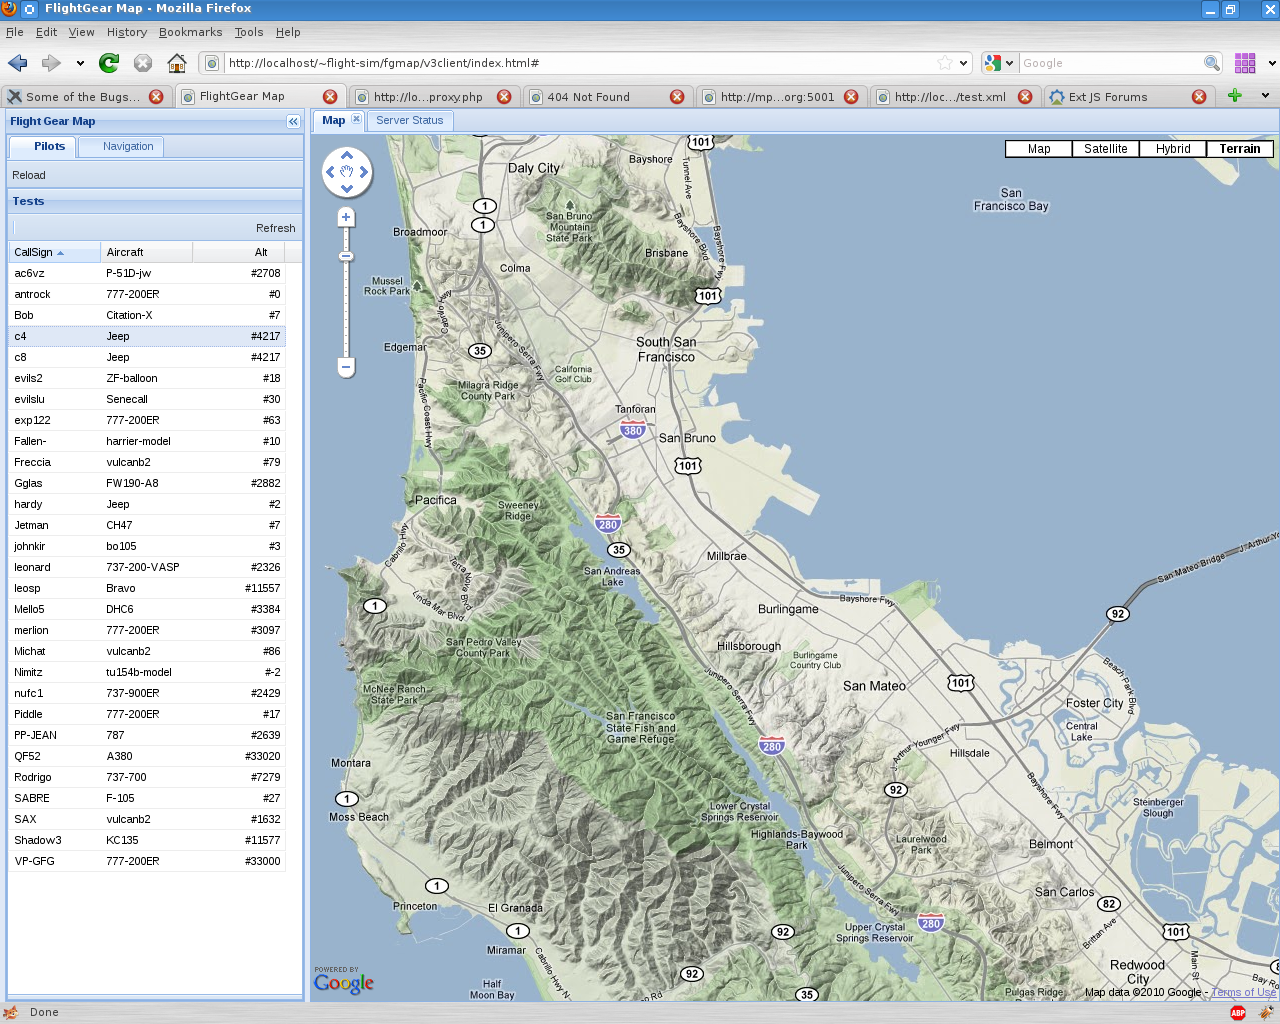
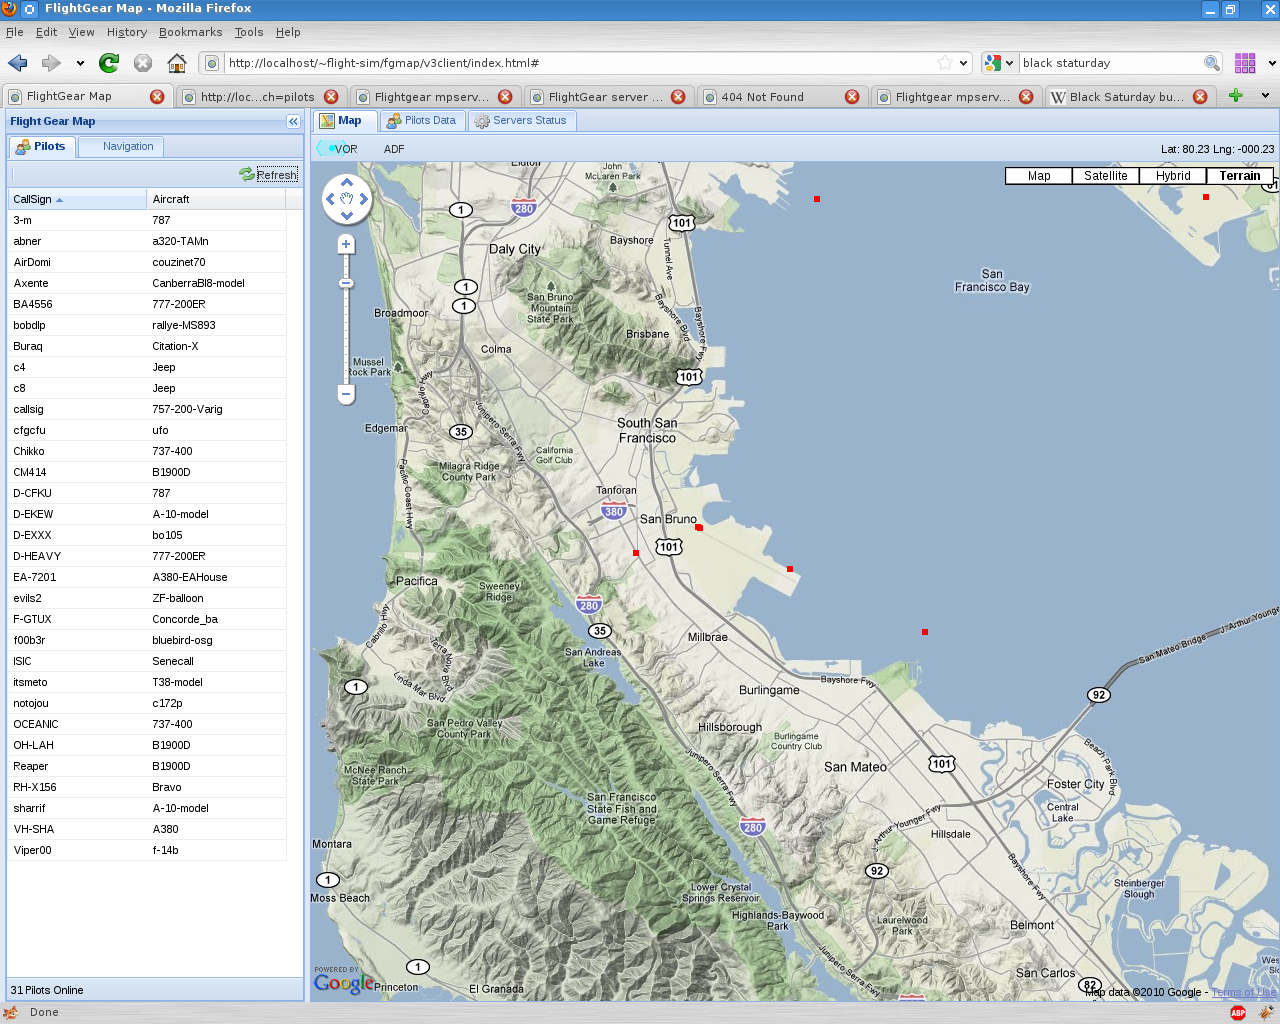
prep for Online test

diff --git a/v3client/js/FGMap_main.js b/v3client/js/FGMap_main.js
@@ -3,8 +3,8 @@ Ext.onReady(function(){
 
 
 
-var latLabel = new Ext.Toolbar.TextItem({text:'Lat: 80.23'});
-var lngLabel = new Ext.Toolbar.TextItem({text:'Lng: -000.23'});
+var latLabel = new Ext.Toolbar.TextItem({text:'Lat: -0.00'});
+var lngLabel = new Ext.Toolbar.TextItem({text:'Lng: -0.00'});
 
 var pilotsSummaryCountLabel = new Ext.Toolbar.TextItem({text:'No pilots'});
 var pilotsDataCountLabel = new Ext.Toolbar.TextItem({text:'No pilots'});
@@ -61,7 +61,8 @@ pilotsStore.on("load", function(){
 			pilotMarkers[callsign] = new google.maps.Marker({
 				position: latlng, 
 				map: fgMap, 
-				title: callsign
+				title: callsign,
+				icon: '../images/aircraft_icons/aircraft_dot.png'
 			}); 
 		}
 		//console.log(rec);
@@ -146,7 +147,10 @@ var viewport = new Ext.Viewport({
 						contentEl: 'map_canvas',
 						title: 'Map&nbsp;&nbsp;',
 						iconCls: 'iconMap',
-						tbar: [ '->', latLabel, lngLabel],
+						tbar: [ {text: 'VOR', iconCls: 'iconVor'}, {text: 'ADF', iconCls: 'iconAdf'},
+								'->', latLabel, lngLabel
+
+						],
 						autoScroll: true
 					}),
 					//***************************************************

diff --git a/v3client/index.html b/v3client/index.html
@@ -30,7 +30,7 @@
       mapTypeId: google.maps.MapTypeId.TERRAIN
     };
     fgMap = new google.maps.Map(document.getElementById("map_canvas"), myOptions);
-	google.maps.event.addDomListener(fgMap, 'mousemove', function(latlng) {
+	google.maps.event.addDomListener(fgMap, 'idle', function(latlng) {
 		//FIXME - wtf this doent exist as event
 		console.log("mousemove", latlng);
 	});

diff --git a/v3client/style_sheets/v3.css b/v3client/style_sheets/v3.css
@@ -9,3 +9,6 @@
 .iconRefresh {background-image: url('../images/icons/arrow_refresh.png') !important;}
 
 .iconServerStatus {background-image: url('../images/icons/cog.png') !important;}
+
+.iconVor {background-image: url('../../images/nav_icons/vor.png') !important;}
+.iconNdb {background-image: url('../../images/nav_icons/ndb.png') !important;}
